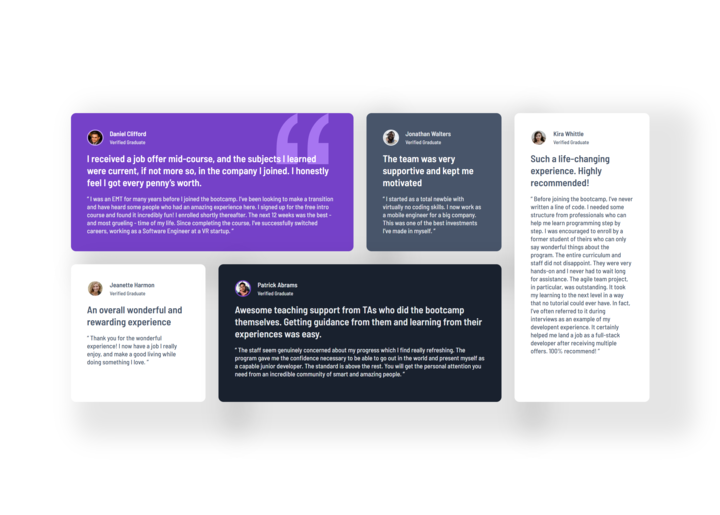
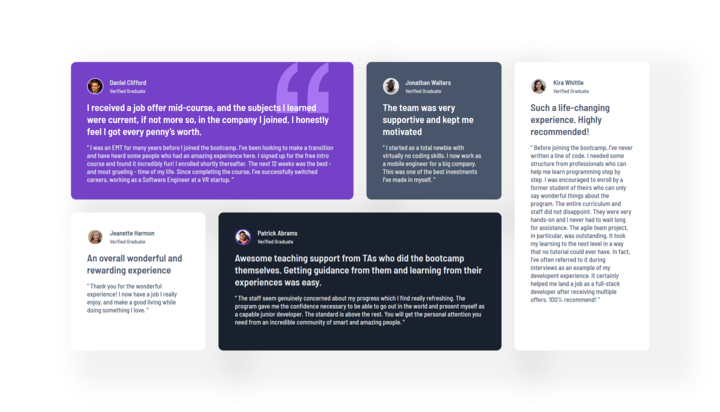
box shadow

Changed region(s): [[0.0917, 0.1456, 0.9167, 0.8738]]

diff --git a/style.css b/style.css
@@ -51,7 +51,7 @@ body {
   display: flex;
   flex-direction: column;
   gap: 1rem;
-  box-shadow: 50px 30px 45px 40px rgba(0, 0, 0, 0.1);
+  box-shadow: 50px 30px 45px 40px rgba(0, 0, 0, 0.05);
 
   &.purple {
     background-color: var(--color-purple-500);

diff --git a/README.md b/README.md
@@ -29,5 +29,5 @@ Users should be able to:
 
 ### Links
 
-- Solution URL: [solution URL](https://agonizq.github.io/testimonials-grid-section)
+- Solution URL: [solution URL](https://github.com/agonizq/testimonials-grid-section)
 - Live Site URL: [live site URL](https://agonizq.github.io/testimonials-grid-section)
